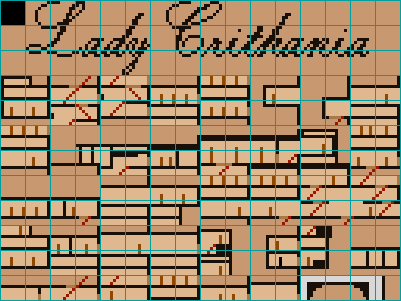
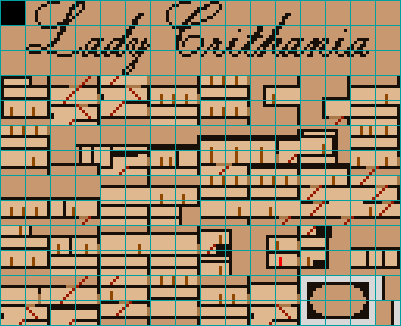
correct tile number for the map

diff --git a/utils/lib/bg7utl.rb b/utils/lib/bg7utl.rb
@@ -25,7 +25,10 @@ class BG7Manager
     pallet=@pallets[pid]=@vmgr.getbg7basecolors(pid).map{|r|
       @imgmgr.mkpixel(*r)
     }
-    return pallet if pid==253
+    if pid==253
+      pallet[94]=@imgmgr.mkpixel(31,0,0) # ボイラー室前入り口
+      return pallet
+    end
     pallet[7]=@arrowcolor if pid>3
     if pid==24  # theater
       @vmgr.getbg7rotcolors(pid,0,true).each_with_index{|r,i|
@@ -40,7 +43,7 @@ class BG7Manager
   def getcoloredtiles(pid,prologue=false)
     bgtiles=@vmgr.getmode7tiles(
       pid,
-      pid==253 ? 0x3000 : 0x4000
+      pid==253 ? 0x3400 : 0x4000
     )
     if prologue && haveanothertile(pid)
       bgtiles[192,64]=@vmgr.getmode7tiles(@prolog_pidmap[pid], 0x1000)
